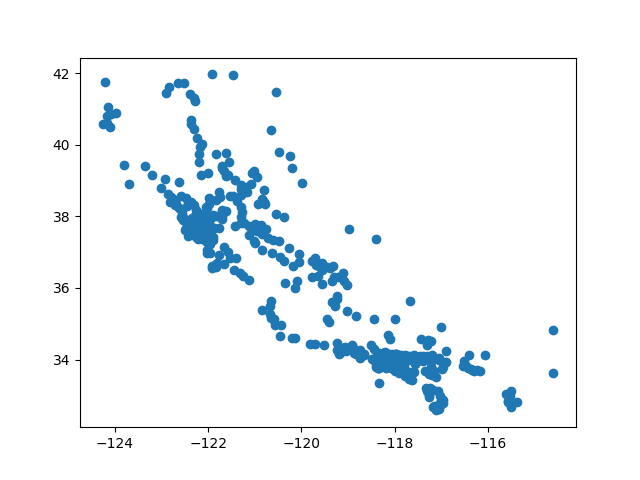
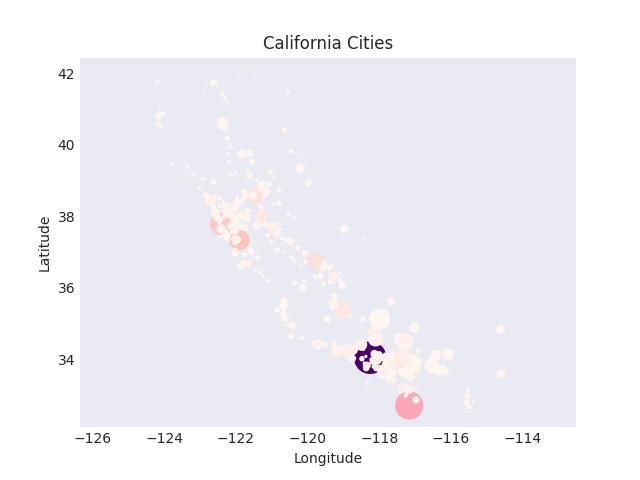
scatterplots

diff --git a/scatterplots.py b/scatterplots.py
@@ -1,5 +1,9 @@
 import pandas as pd
 from matplotlib import pyplot as plt
+from sklearn.datasets import load_iris
+
+plt.style.use('seaborn-v0_8-dark')
+print(plt.style.available)
 
 # Read CSV file into Pandas DataFrame
 cities = pd.read_csv('california_cities.csv')
@@ -8,11 +12,29 @@ print(cities.info()) # look at columns, dtypes, entries
 # Extract data columns for our scatterplot
 latitudes = cities['latd'] # y values
 longitudes = cities['longd'] # x values
-populations = cities['population_total']
-area = cities['area_total_sq_mi']
+populations = cities['population_total'] # feature shown by COLOR
+area = cities['area_total_sq_mi'] # feature shown by SIZE of dots
 
 # Generate scatterplot (each city row is a dot)
-plt.scatter(longitudes, latitudes)
+# plt.scatter(longitudes, latitudes)
+plt.scatter(longitudes, latitudes, s=area, c=populations, cmap='RdPu')
+
+# Customize the appearance of the plot
+plt.title('California Cities')
+plt.xlabel('Longitude')
+plt.ylabel('Latitude')
+plt.axis('equal') # useful for map data
 
 plt.savefig('scatter-cities.png')
 plt.close()
+
+# Scatterplot from Iris dataset (machine learning)
+iris = load_iris()
+print(iris) # 'feature_names': ['sepal length (cm)', 'sepal width (cm)', 'petal length (cm)', 'petal width (cm)']
+features = iris.data.T # transpose (switch rows & cols)
+
+plt.scatter(features[0], features[1], c=iris.target, cmap='viridis', alpha=0.5, s=features[3]*100)
+# Use column names as labels
+plt.xlabel(iris.feature_names[0])
+plt.ylabel(iris.feature_names[1])
+plt.savefig('scatter-iris.png')
